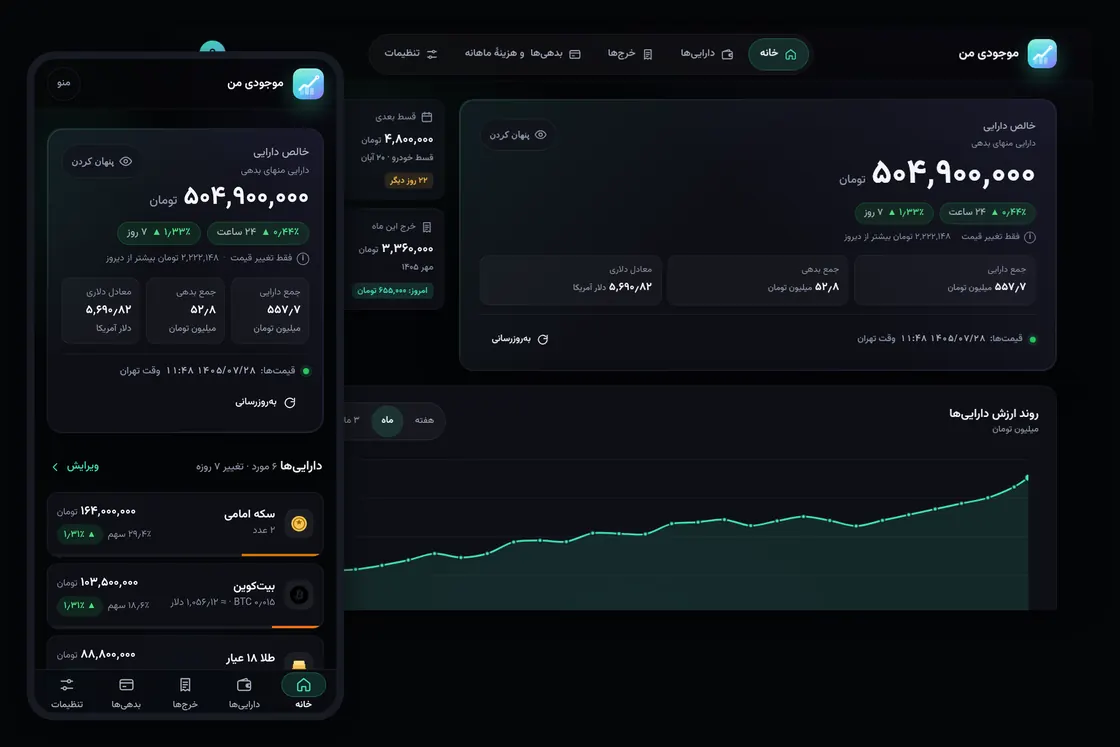
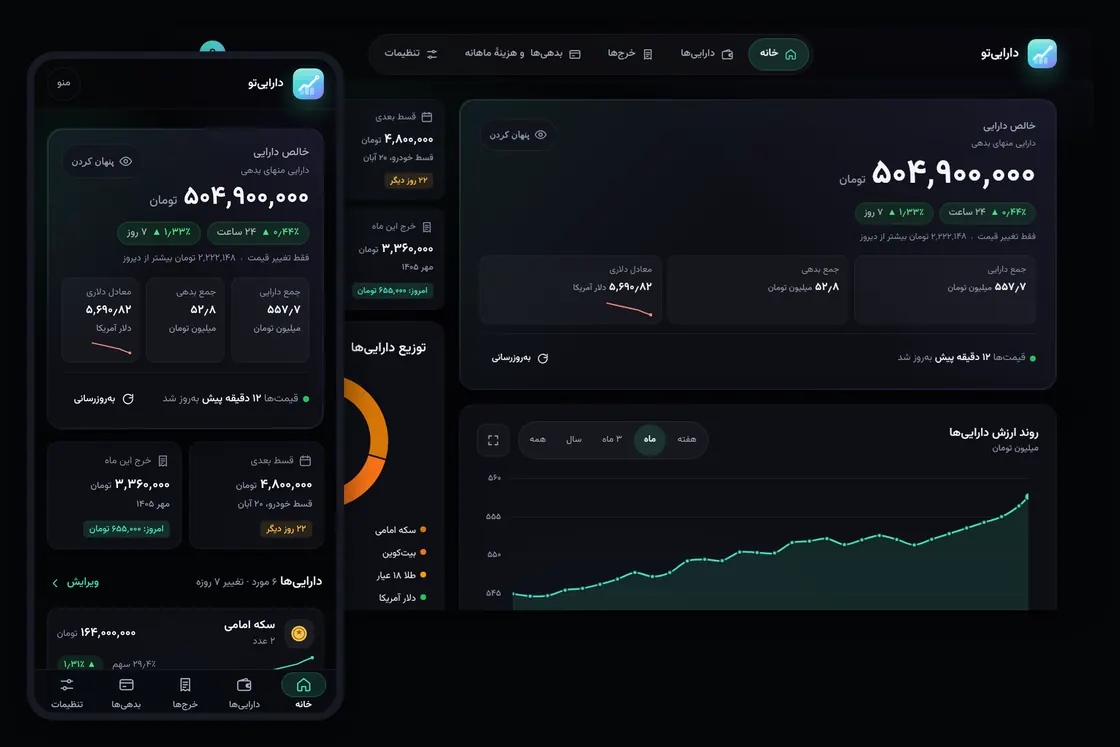
Landing: re-shoot the 10 hero/phone/spend WebPs with the new name (fake demo data); fix landing_shots.py for Spending v2 sheet + Chart.js; STATIC_ASSET_VERSION 20261027d

diff --git a/scripts/landing_shots.py b/scripts/landing_shots.py
@@ -131,13 +131,18 @@ def capture(base, password, chrome, raw_dir):
                 assert r.status_code in (200, 303) and "/dashboard" in str(r.url) or r.status_code == 303, "demo login failed"
                 c.add_cookies([{"name": k, "value": v, "url": base} for k, v in hc.cookies.items()])
                 pg = c.new_page()
-                pg.clock.set_fixed_time(FROZEN_ISO)
+                pg.clock.set_system_time(FROZEN_ISO)  # runs from the frozen start (set_fixed_time would freeze Chart.js animations)
                 return c, pg
 
             def load(pg, path):
                 pg.goto(base + path, wait_until="networkidle")
                 pg.evaluate("document.fonts.ready")
-                pg.wait_for_timeout(500)
+                pg.wait_for_timeout(1800)  # let the Chart.js animations finish
+                # the allocation doughnut only paints once its panel has been scrolled into view
+                pg.evaluate("""()=>{const p=document.getElementById('pie-panel');if(p)p.scrollIntoView({block:'center'});}""")
+                pg.wait_for_timeout(1500)
+                pg.evaluate("scrollTo(0,0)")
+                pg.wait_for_timeout(300)
                 leaked = pg.evaluate(HIDE_USER_JS, "demo_nemoone")
                 assert not leaked, "demo username still in the page"
 
@@ -157,17 +162,16 @@ def capture(base, password, chrome, raw_dir):
             c, pg = ctx(390, 844, 2)
             load(pg, "/dashboard")
             shots[("phone", theme)] = grab(pg)
-            # slot 4: add-spend form, pre-filled (not saved) + the first recent spends
+            # slot 4: add-spend sheet (Spending v2: on a phone the form opens as a bottom sheet from the
+            # «ثبت خرج» bar), pre-filled but never saved
             load(pg, "/dashboard?tab=daily")
-            pg.fill('#daily-spend-form input[name="amount_toman"]', "350000")
-            pg.evaluate("""()=>{const f=document.getElementById('daily-spend-form');
-              const s=[...f.querySelectorAll('select')];const p=s[0];if(p){const o=[...p.options].find(o=>o.textContent.trim()==='خوراک');
-              if(o){p.value=o.value;p.dispatchEvent(new Event('change',{bubbles:true}));}}}""")
+            pg.click("[data-sp-addbar] [data-sp-open-form]")
+            pg.wait_for_timeout(500)
+            pg.fill("#sp-amount_toman", "350000")
+            pg.click("[data-sp-pchips] button:has-text('خوراک')")
             pg.fill('#daily-spend-form input[name="note"]', "ناهار")
             pg.locator("#daily-spend-form input[name=note]").blur()
-            top = pg.evaluate("document.querySelector('.daily-add').getBoundingClientRect().top + scrollY")
-            pg.evaluate(f"scrollTo(0,{max(0, top - 76)})")
-            pg.wait_for_timeout(300)
+            pg.wait_for_timeout(400)
             shots[("spend", theme)] = grab(pg)
             c.close()
         br.close()

diff --git a/tests/test_landing_assets.py b/tests/test_landing_assets.py
@@ -1,0 +1,29 @@
+"""Landing screenshots: every file in the manifest exists, stays under the size cap, and the generator signs in via /auth."""
+import json
+from pathlib import Path
+
+ROOT = Path(__file__).resolve().parents[1]
+LANDING = ROOT / "app" / "static" / "landing"
+
+
+def test_manifest_files_exist_and_fit_budget():
+    m = json.loads((LANDING / "manifest.json").read_text(encoding="utf-8"))
+    names = {f["file"] for f in m["files"]}
+    assert len(names) == 10
+    for f in m["files"]:
+        p = LANDING / f["file"]
+        assert p.exists() and p.stat().st_size == f["bytes"] <= 150 * 1024, f["file"]
+    assert {p.name for p in LANDING.glob("*.webp")} == names
+
+
+def test_landing_page_references_only_existing_images(client):
+    import re
+    html = client.get("/").text
+    for rel in set(re.findall(r"/static/landing/([\w.-]+\.webp)", html)):
+        assert (LANDING / rel).exists(), rel
+
+
+def test_generator_uses_unified_auth_and_spending_v2_selectors():
+    src = (ROOT / "scripts" / "landing_shots.py").read_text(encoding="utf-8")
+    assert '"/auth/continue"' in src and 'post("/login"' not in src
+    assert "data-sp-open-form" in src and "#sp-amount_toman" in src

diff --git a/app/config.py b/app/config.py
@@ -27,7 +27,7 @@ PRICE_REFRESH_HOURS = int(os.environ.get("PRICE_REFRESH_HOURS", "1"))
 PRICE_MANUAL_REFRESH_MINUTES = int(os.environ.get("PRICE_MANUAL_REFRESH_MINUTES", "5"))
 ENABLE_INTERNAL_SCHEDULER = os.environ.get("ENABLE_INTERNAL_SCHEDULER", "1") == "1"
 # Bump when static JS/CSS change so browsers and the service worker pick up new assets.
-STATIC_ASSET_VERSION = os.environ.get("STATIC_ASSET_VERSION", "20261027c")
+STATIC_ASSET_VERSION = os.environ.get("STATIC_ASSET_VERSION", "20261027d")
 # Public origin shown to users (e.g. MCP URL). Empty = use the request's own base URL.
 PUBLIC_BASE_URL = os.environ.get("PUBLIC_BASE_URL", "").strip().rstrip("/")
 
